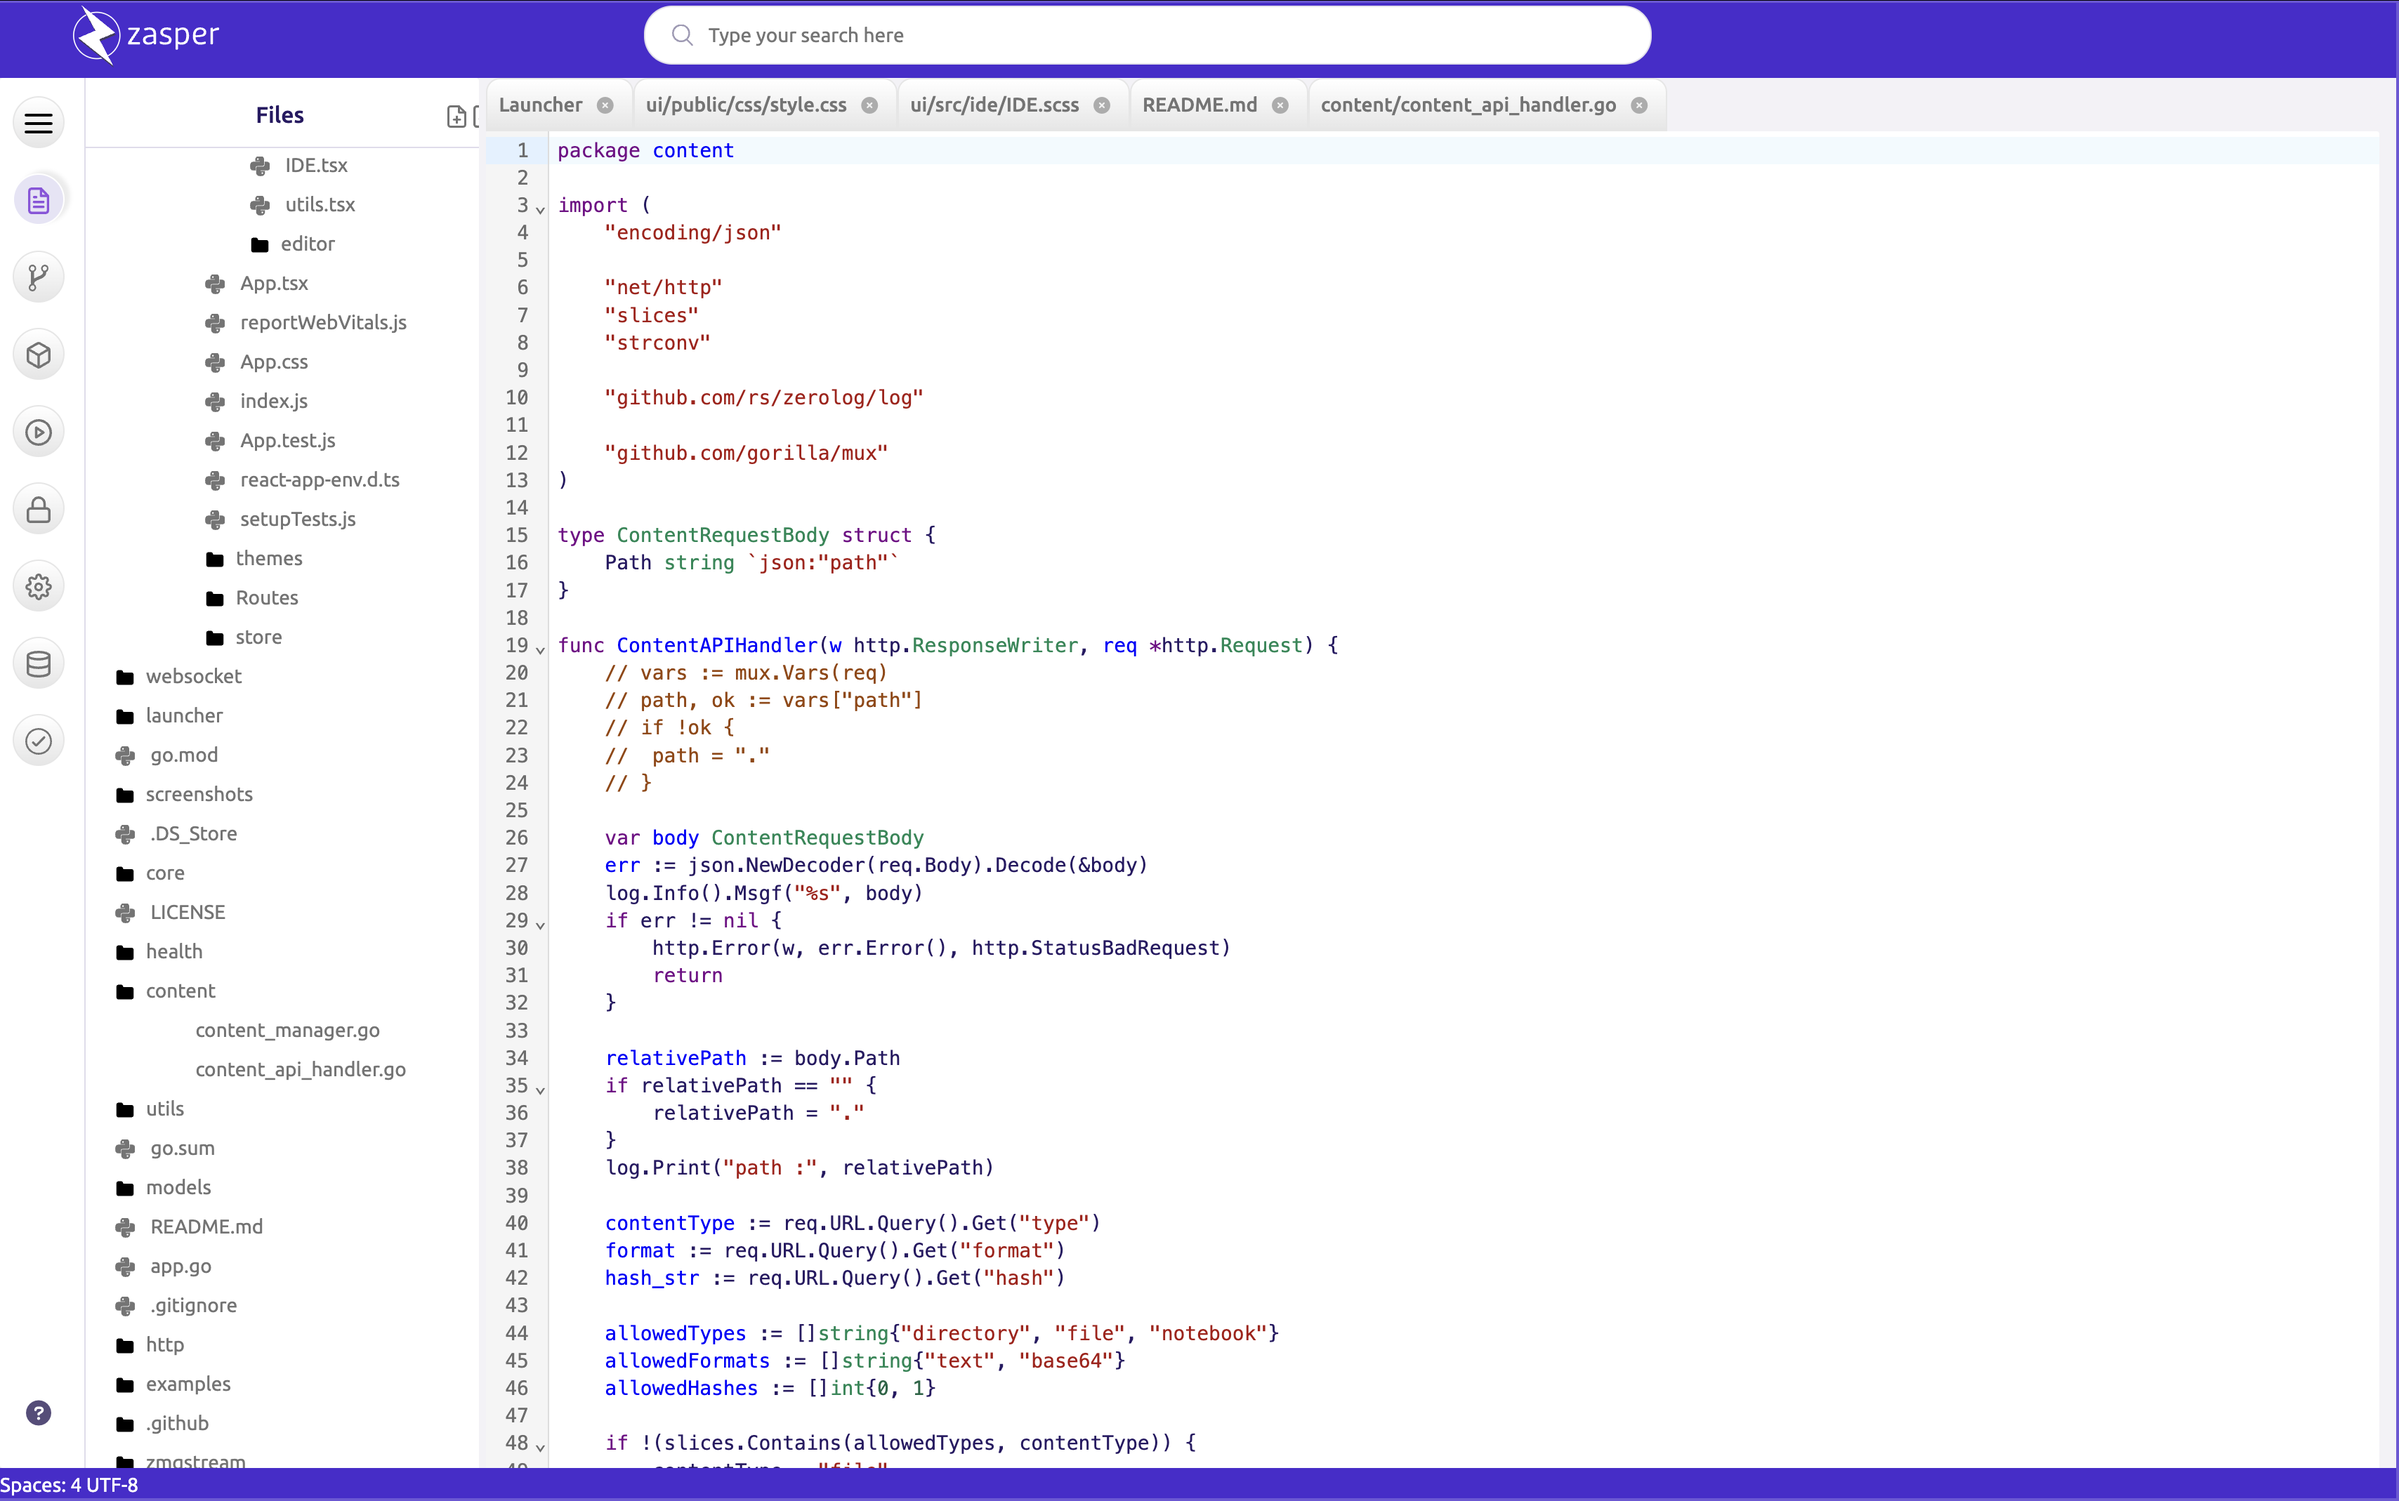
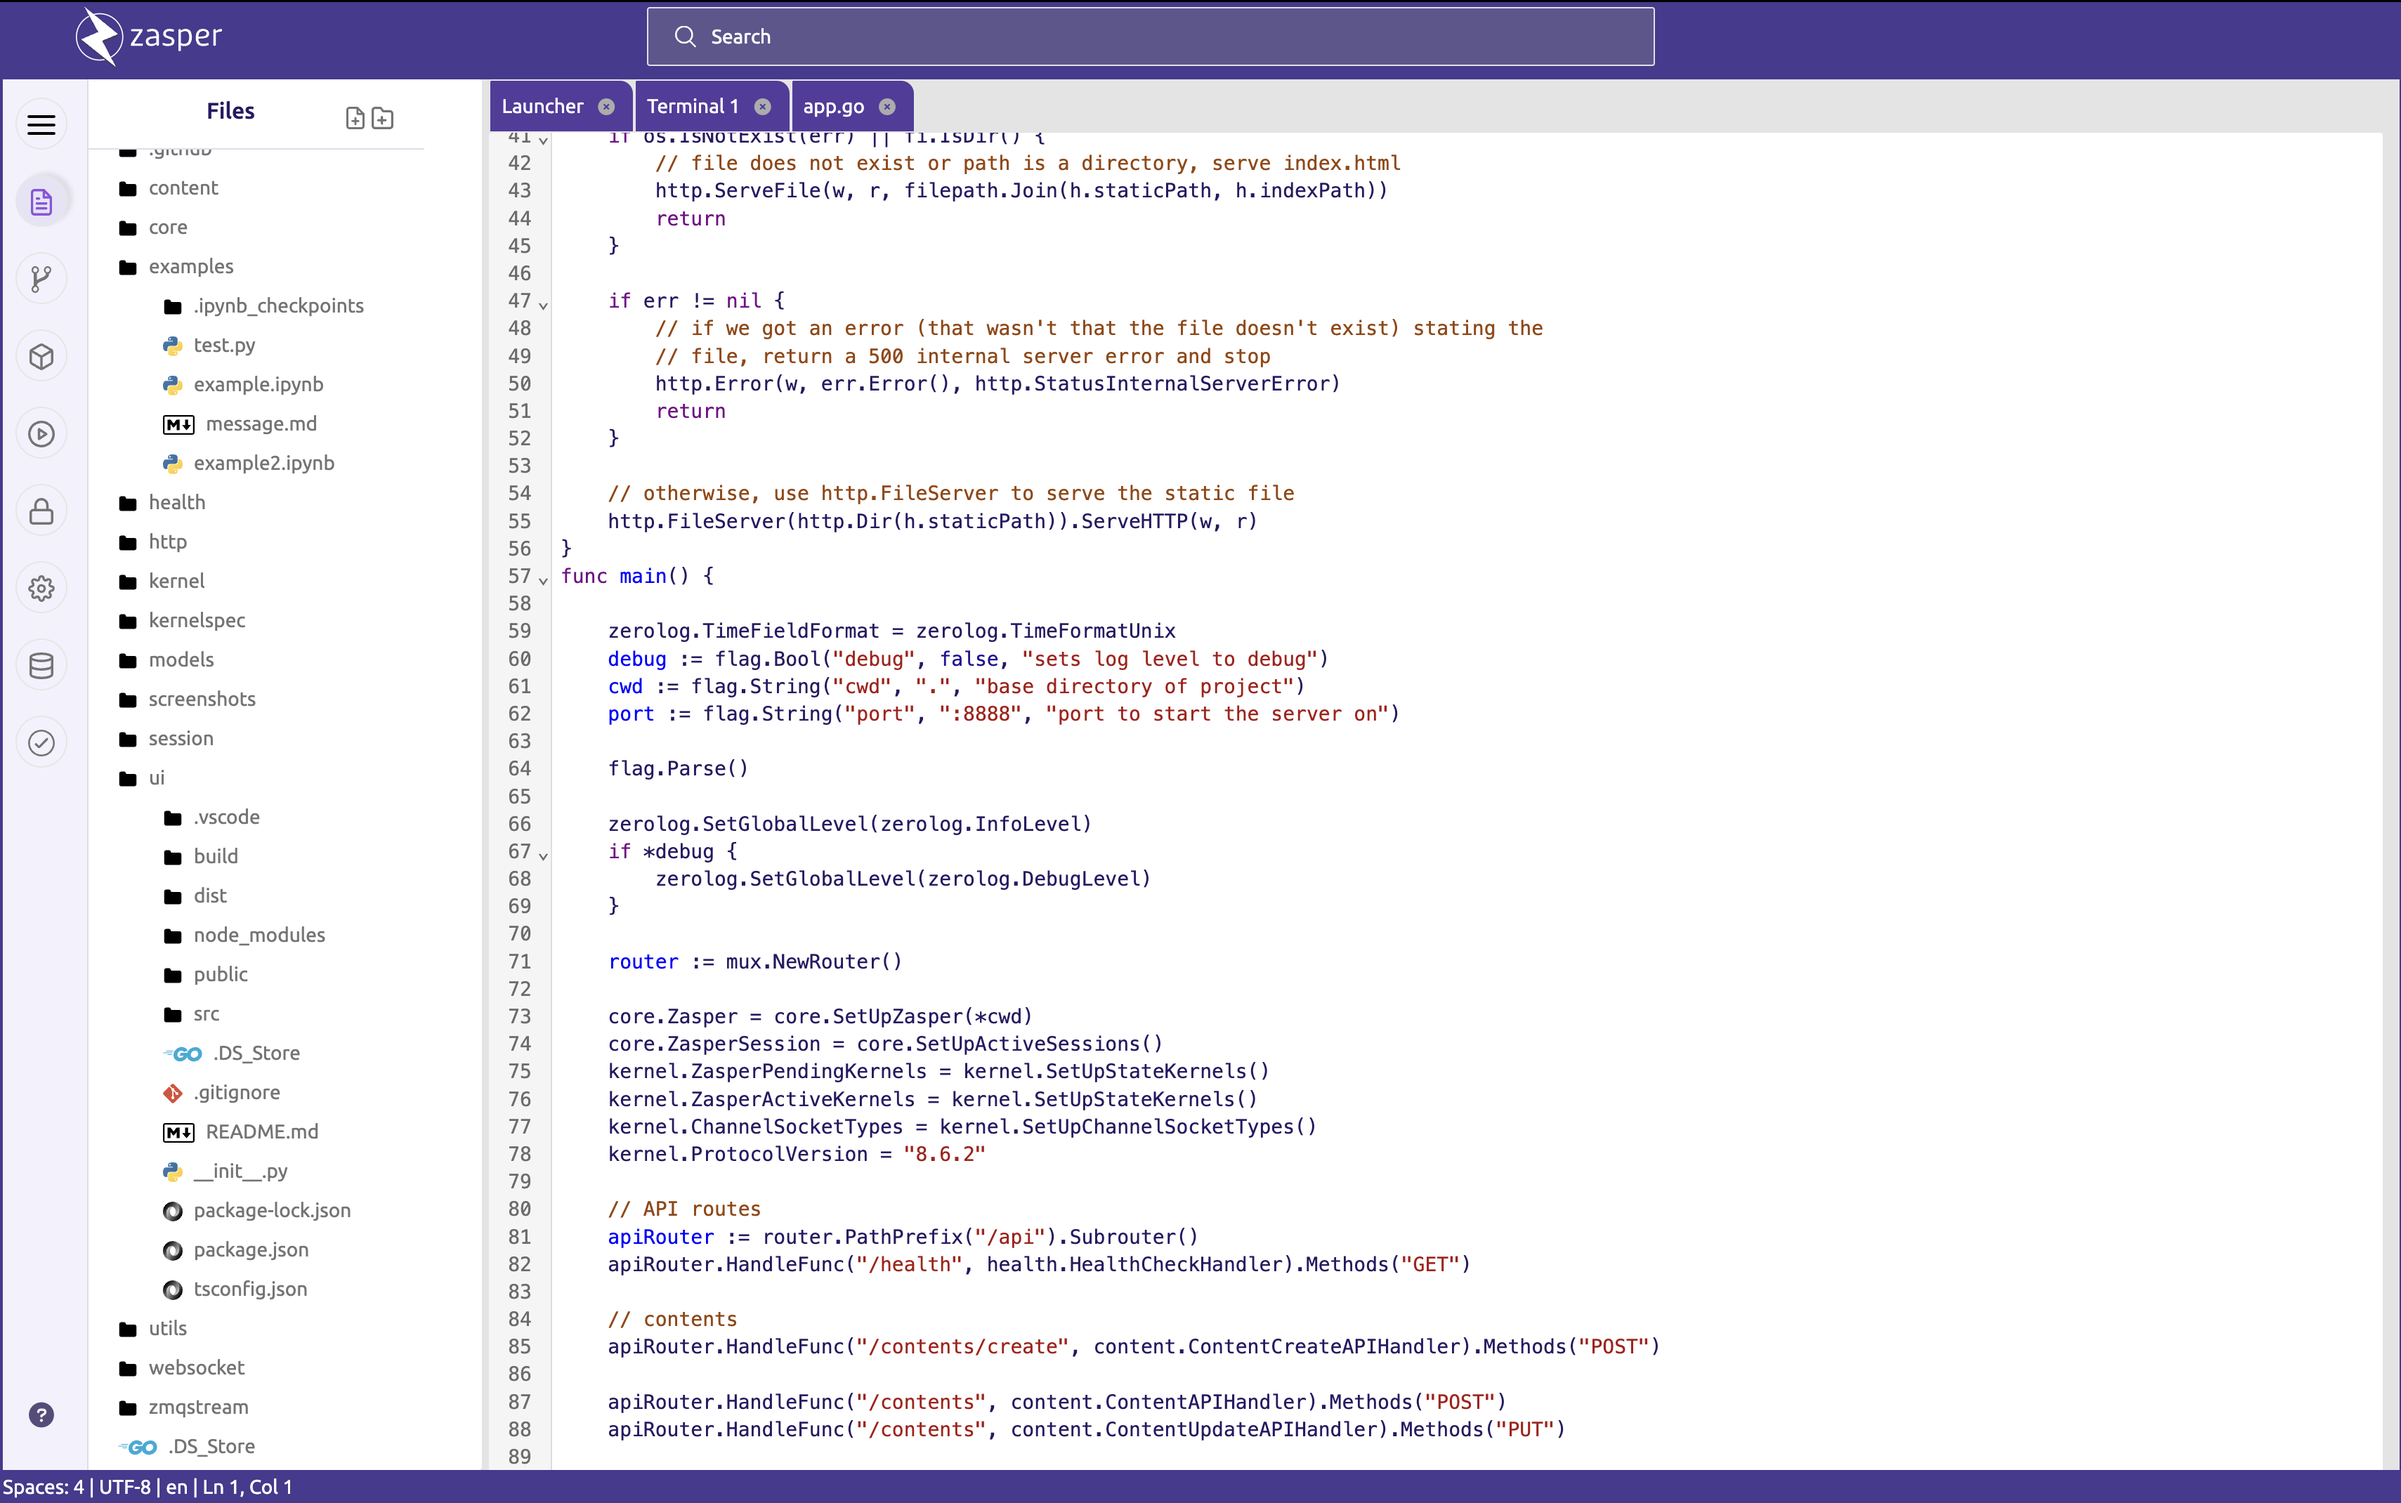
UI upgrade :D

diff --git a/ui/src/ide/IDE.scss b/ui/src/ide/IDE.scss
@@ -7,7 +7,7 @@ body {
     font-size: 14px;
     font-weight: 400;
     line-height: 24px;
-    background-color: #f3f2f6;
+    background-color: #e4e4e5;
     position: relative;
 }
 
@@ -453,13 +453,14 @@ a {
 }
 
 .nav-link {
-    background: transparent linear-gradient(180deg, #ffffff 0%, #e6e6e6 100%) 0%
-    0% no-repeat;
-    font-weight: 500;
+    // background: transparent linear-gradient(180deg, #ffffff 0%, #e6e6e6 100%) 0%
+    // 0% no-repeat;
+    background: #553b9e;
+    font-weight: 400;
     border: 1px solid #e6e6e6;
-    border-radius: 10px 10px 0px 0px;
+    border-radius: 2px 10px 0px 0px;
     padding: 6px 8px;
-    color: #747474;
+    color: #ffffff;
     box-sizing: border-box;
 
     i {
@@ -468,12 +469,16 @@ a {
         font-size: 12px;
     }
 }
+.nav-link:hover{
+    color: #ffffff;
+    background: #7651db;
+}
 
 
 .nav-link.active {
     box-shadow: 4px -2px 3px #00000014;
-    background: #fff;
-    border-color: #fff;
+    color: #ffffff;
+    background: #7651db;
 }
 
 .tabContent {

diff --git a/core/config.go b/core/config.go
@@ -24,7 +24,7 @@ func SetUpZasper(cwd string) Application {
 	application := Application{
 		BaseUrl:           "https://zasper.io",
 		HomeDir:           cwd,
-		StaticUrl:         "/images",
+		StaticUrl:         "./images",
 		JupyterConfigDir:  utils.GetJupyterConfigDir(),
 		JupyterDataDir:    utils.GetJupyterDataDir(),
 		JupyterRuntimeDir: utils.GetJupyterRuntimeDir(),

diff --git a/README.md b/README.md
@@ -34,6 +34,9 @@ Inbuilt concurrency
 ### Launcher
 ![Launcher](./screenshots/launcher.png) 
 
+### Jupyter Notebook
+![Notebook](./screenshots/notebook.png) 
+
 ## ⚡ Quick start
 
 Zasper comes in two flavours:
@@ -42,8 +45,6 @@ Zasper comes in two flavours:
 2. Web App
 
 ### Electron App
-
-#### Start the backend
 
 
 #### Install zeromq
@@ -97,6 +98,8 @@ brew install zeromq
 ```
 
 #### Start the backend
+
+Install zeromq.
 
 Go to project home and start the server
 
